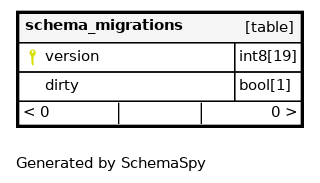
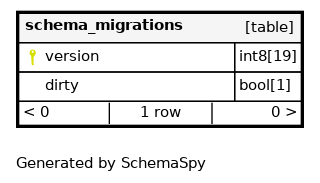
Fix: タイポ修正

Changed region(s): [[0.625, 0.5464, 0.6875, 0.6831], [0.3125, 0.5464, 0.375, 0.6831], [0.4375, 0.5738, 0.5625, 0.6557]]

diff --git a/docs/er-diagram/index.html b/docs/er-diagram/index.html
@@ -78,7 +78,7 @@
                         <div class="col-md-12">
                             <div class="callout callout-info">
                                 <h4>SchemaSpy Analysis of local.public</h4>
-                                <p>Generated on Tue Dec 16 01:47 UTC 2025</p>
+                                <p>Generated on Sat Dec 20 18:52 UTC 2025</p>
                             </div>
                         </div>
                     </div>
@@ -246,7 +246,7 @@
                                         <td class="detail" align="right">0</td>
                                         <td class="detail" align="right">0</td>
                                         <td class="detail" align="right">2</td>
-                                        <td class="detail" align="right">-1</td>
+                                        <td class="detail" align="right">1</td>
                                         <td class="detail" align="right">Table</td>
                                         <td class="comment detail" style="display: table-cell;"></td>
                                     </tr>

diff --git a/docs/er-diagram/tables/schema_migrations.html b/docs/er-diagram/tables/schema_migrations.html
@@ -73,7 +73,7 @@
             <div class="content-wrapper">
                 <!-- Content Header (Page header) -->
                 <section class="content-header">
-                    <h1>schema_migrations</h1><p><span id="recordNumber">-1</span> rows</p><br />
+                    <h1>schema_migrations</h1><p><span id="recordNumber">1</span> rows</p><br />
                 </section>
                 <!-- Main content -->
                 <section class="content">

diff --git a/internal/controller/httpstack/validator/gen/validate.gen.go b/internal/controller/httpstack/validator/gen/validate.gen.go
@@ -19,70 +19,70 @@ import (
 var swaggerSpec = []string{
 
[65 lines of base64/hex data omitted]
-	"fkgAAA==",
[61 lines of base64/hex data omitted]
+	"AA==",
 }
 
 // GetSwagger returns the content of the embedded swagger specification file

diff --git a/internal/controller/handler/v1/users/v1_users_handler_test.go b/internal/controller/handler/v1/users/v1_users_handler_test.go
@@ -210,16 +210,16 @@ func Test_server_PostUsers(t *testing.T) {
 
 		req := gen.PostUsersRequestObject{
 			Body: &gen.PostUsersJSONRequestBody{
-				FirstName:   "First",
-				LastName:    "Last",
-				Email:       types.Email("new@example.com"),
-				Phone:       "09000000000",
-				PostlalCode: "123-4567",
-				Prefecture:  "Tokyo",
-				City:        "Shibuya",
-				Street:      "1-1-1",
-				Building:    ptr.To("Building"),
-				Password:    "secret",
+				FirstName:  "First",
+				LastName:   "Last",
+				Email:      types.Email("new@example.com"),
+				Phone:      "09000000000",
+				PostalCode: "123-4567",
+				Prefecture: "Tokyo",
+				City:       "Shibuya",
+				Street:     "1-1-1",
+				Building:   ptr.To("Building"),
+				Password:   "secret",
 			},
 		}
 
@@ -228,7 +228,7 @@ func Test_server_PostUsers(t *testing.T) {
 			LastName:       req.Body.LastName,
 			Email:          string(req.Body.Email),
 			Phone:          req.Body.Phone,
-			PostalCode:     req.Body.PostlalCode,
+			PostalCode:     req.Body.PostalCode,
 			PrefectureName: req.Body.Prefecture,
 			City:           req.Body.City,
 			Street:         req.Body.Street,

diff --git a/internal/integration/v1_users_test.go b/internal/integration/v1_users_test.go
@@ -63,16 +63,16 @@ func TestV1Users_Integration(t *testing.T) {
 
 		req := gen.PostUsersRequestObject{
 			Body: &gen.PostUsersJSONRequestBody{
-				FirstName:   "First",
-				LastName:    "Last",
-				Email:       types.Email("new@example.com"),
-				Phone:       "09000000000",
-				PostlalCode: "123-4567",
-				Prefecture:  "Tokyo",
-				City:        "Shibuya",
-				Street:      "1-1-1",
-				Building:    ptr.To("Building"),
-				Password:    "secret",
+				FirstName:  "First",
+				LastName:   "Last",
+				Email:      types.Email("new@example.com"),
+				Phone:      "09000000000",
+				PostalCode: "123-4567",
+				Prefecture: "Tokyo",
+				City:       "Shibuya",
+				Street:     "1-1-1",
+				Building:   ptr.To("Building"),
+				Password:   "secret",
 			},
 		}
 

diff --git a/internal/controller/handler/v1/users/gen/type.gen.go b/internal/controller/handler/v1/users/gen/type.gen.go
@@ -45,8 +45,8 @@ type RequestPostV1Users struct {
 	// Phone 電話番号
 	Phone string `json:"phone"`
 
-	// PostlalCode 郵便番号
-	PostlalCode string `json:"postlalCode"`
+	// PostalCode 郵便番号
+	PostalCode string `json:"postalCode"`
 
 	// Prefecture 都道府県
 	Prefecture string `json:"prefecture"`
@@ -91,8 +91,8 @@ type UserBaseInputRequest struct {
 	// Phone 電話番号
 	Phone *string `json:"phone,omitempty"`
 
-	// PostlalCode 郵便番号
-	PostlalCode *string `json:"postlalCode,omitempty"`
+	// PostalCode 郵便番号
+	PostalCode *string `json:"postalCode,omitempty"`
 
 	// Prefecture 都道府県
 	Prefecture *string `json:"prefecture,omitempty"`

diff --git a/internal/controller/handler/v1/users/v1_users_handler.go b/internal/controller/handler/v1/users/v1_users_handler.go
@@ -92,7 +92,7 @@ func (s *server) PostUsers(ctx context.Context, request gen.PostUsersRequestObje
 	createPrams.LastName = request.Body.LastName
 	createPrams.Email = string(request.Body.Email)
 	createPrams.Phone = request.Body.Phone
-	createPrams.PostalCode = request.Body.PostlalCode
+	createPrams.PostalCode = request.Body.PostalCode
 	createPrams.PrefectureName = request.Body.Prefecture
 	createPrams.City = request.Body.City
 	createPrams.Street = request.Body.Street

diff --git a/internal/usecase/support/search/README.md b/internal/usecase/support/search/README.md
@@ -4,7 +4,7 @@
 
 ## 役割
 
-`internal/usecase/support/search` パッケージは、ユーザーからの検索キーワードを安全かつ一貫した形でアプリケーション内の検索処理に渡すための補助関数を提供します。具体的には、文字列をトークンに分割（`_` と空白で分割）、各トークンの前後空白除去、空トークン除外、順序を保持した重複排除、最大トークン数の制限を行います（実装は `serch.go`）。
+`internal/usecase/support/search` パッケージは、ユーザーからの検索キーワードを安全かつ一貫した形でアプリケーション内の検索処理に渡すための補助関数を提供します。具体的には、文字列をトークンに分割（`_` と空白で分割）、各トークンの前後空白除去、空トークン除外、順序を保持した重複排除、最大トークン数の制限を行います（実装は `search.go`）。
 
 ## 必要度
 
@@ -29,7 +29,7 @@
 
 ## 注意点
 
-- 実装上の挙動（`serch.go` に基づく重要ポイント）:
+- 実装上の挙動（`search.go` に基づく重要ポイント）:
   - 分割ルール: アンダースコア（`_`）と Unicode の空白文字で分割する。
   - トリム: 各トークンの前後の空白は除去する。
   - 空トークン: 空文字は削除される。
@@ -38,7 +38,7 @@
   - 正規化の範囲: 現状はトークンの小文字化や Unicode 正規化（NFKC/NFC 等）は行わない。ケースインセンシティブ検索やより高度な正規化が必要な場合は、呼び出し元で追加処理するかユーティリティを拡張してください。
 
 - ファイル/シンボル:
-  - 実装ファイル: `internal/usecase/support/search/serch.go`
+  - 実装ファイル: `internal/usecase/support/search/search.go`
   - 主要関数: `ParseSearchTokens(keyword string, maxTokens int) []string`
 
 ## 例
